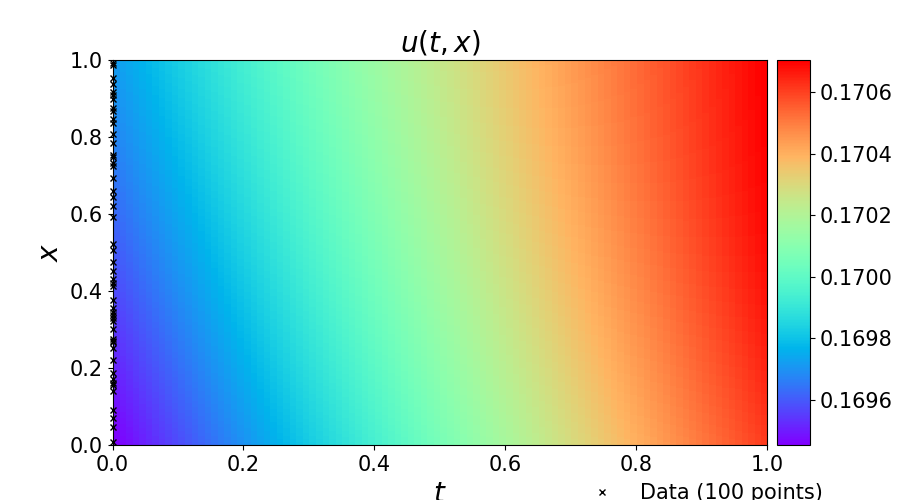
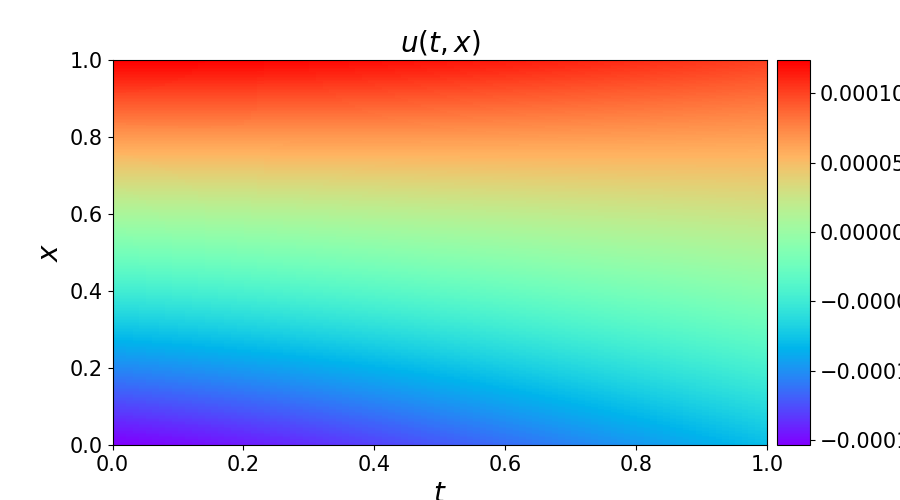
fix bug

diff --git a/Aupported_Beam_Equation/Aupported_Beam_Equation.py b/Aupported_Beam_Equation/Aupported_Beam_Equation.py
@@ -62,12 +62,12 @@ if __name__ == "__main__":
     X_u_derivative_xx_trian = np.vstack([xx2, xx3])
     u_derivative_xx_trian = np.vstack([uu2, uu3])
     idx = np.random.choice(
-        X_u_derivative_xx_trian.shape[0], int(N_u / 2), replace=False
+        X_u_derivative_xx_trian.shape[0], int(N_u / 4), replace=False
     )
     X_u_derivative_xx_trian = X_u_derivative_xx_trian[idx, :]
     u_derivative_xx_trian = u_derivative_xx_trian[idx, :]
 
-    idx = np.random.choice(xx1.shape[0], int(N_u / 2), replace=False)
+    idx = np.random.choice(xx1.shape[0], int(N_u / 4), replace=False)
     X_u_derivative_t_trian = xx1[idx, :]
     u_derivative_t_trian = uu1[idx, :]
 
@@ -92,43 +92,3 @@ if __name__ == "__main__":
     scipy.io.savemat("pred.mat", {'u_pred':u_pred})
     
     
-    ####### Row 0: u(t,x) ##################
-    fig = plt.figure(figsize=(9, 5))
-    ax = fig.add_subplot(111)
-
-    h = ax.imshow(
-        U_pred.T,
-        interpolation="nearest",
-        cmap="rainbow",
-        extent=[t.min(), t.max(), x.min(), x.max()],
-        origin="lower",
-        aspect="auto",
-    )
-    divider = make_axes_locatable(ax)
-    cax = divider.append_axes("right", size="5%", pad=0.10)
-    cbar = fig.colorbar(h, cax=cax)
-    cbar.ax.tick_params(labelsize=15)
-
-    ax.plot(
-        X_u_derivative_t_trian[:, 1],
-        X_u_derivative_t_trian[:, 0],
-        "kx",
-        label="Data ({} points)".format(u_train.shape[0]),
-        markersize=4,  # marker size doubled
-        clip_on=False,
-        alpha=1.0,
-    )
-
-
-    ax.set_xlabel("$t$", size=20)
-    ax.set_ylabel("$x$", size=20)
-    ax.legend(
-        loc="upper center",
-        bbox_to_anchor=(0.9, -0.05),
-        ncol=5,
-        frameon=False,
-        prop={"size": 15},
-    )
-    ax.set_title("$u(t,x)$", fontsize=20)  # font size doubled
-    ax.tick_params(labelsize=15)
-    plt.savefig("pred.png")

diff --git a/Aupported_Beam_Equation/plot_result.py b/Aupported_Beam_Equation/plot_result.py
@@ -11,7 +11,7 @@ from model import *
 
 
 if __name__ == '__main__':
-    data = scipy.io.loadmat("pred-5.mat")
+    data = scipy.io.loadmat("pred-6.mat")
     u_pred = np.real(data["u_pred"])
     
     
@@ -24,14 +24,48 @@ if __name__ == '__main__':
     U_pred = griddata(X_star, u_pred.flatten(), (X, T), method="cubic")
     print(U_pred.shape)
     
+    ####### Row 0: u(t,x) ##################
+    fig = plt.figure(figsize=(9, 5))
+    ax = fig.add_subplot(111)
+
+    h = ax.imshow(
+        U_pred.T,
+        interpolation="nearest",
+        cmap="rainbow",
+        extent=[t.min(), t.max(), x.min(), x.max()],
+        origin="lower",
+        aspect="auto",
+    )
+    divider = make_axes_locatable(ax)
+    cax = divider.append_axes("right", size="5%", pad=0.10)
+    cbar = fig.colorbar(h, cax=cax)
+    cbar.ax.tick_params(labelsize=15)
+
+    ax.set_xlabel("$t$", size=20)
+    ax.set_ylabel("$x$", size=20)
+    ax.legend(
+        loc="upper center",
+        bbox_to_anchor=(0.9, -0.05),
+        ncol=5,
+        frameon=False,
+        prop={"size": 15},
+    )
+    ax.set_title("$u(t,x)$", fontsize=20)  # font size doubled
+    ax.tick_params(labelsize=15)
+    plt.savefig("pred.png")
+    
+    ################################
     fig = plt.figure()
     # fig = plt.figure(figsize=(9, 5))
     ax = fig.add_subplot(111)
 
-    ax.plot(t, U_pred[:, 255], "r--", linewidth=2, label="Prediction")
+    ax.plot(t, U_pred[:, 255]*10000, "r--", linewidth=2, label="Prediction")
     ax.set_xlabel("$t$")
     ax.set_ylabel("$u(t,x)$")
     ax.set_title("$x = 1$", fontsize=15)
     ax.axis("square")
-
+    
+    ax.set_xlim([-0.1, 1.1])
+    ax.set_ylim([-3, 3])
+    
     plt.show()
